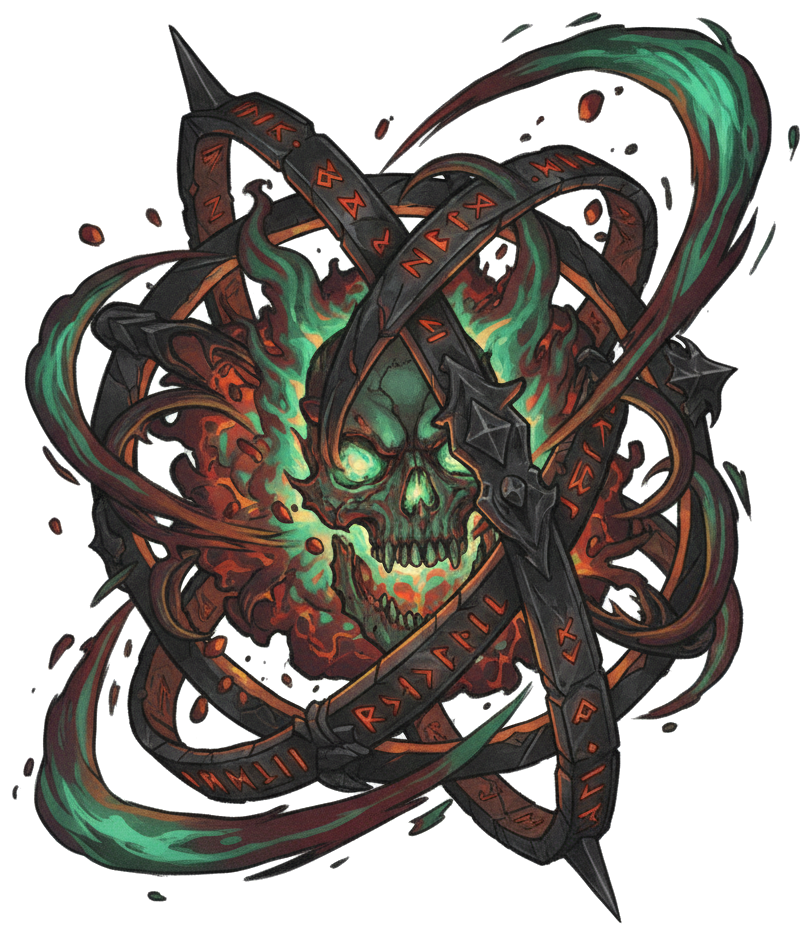
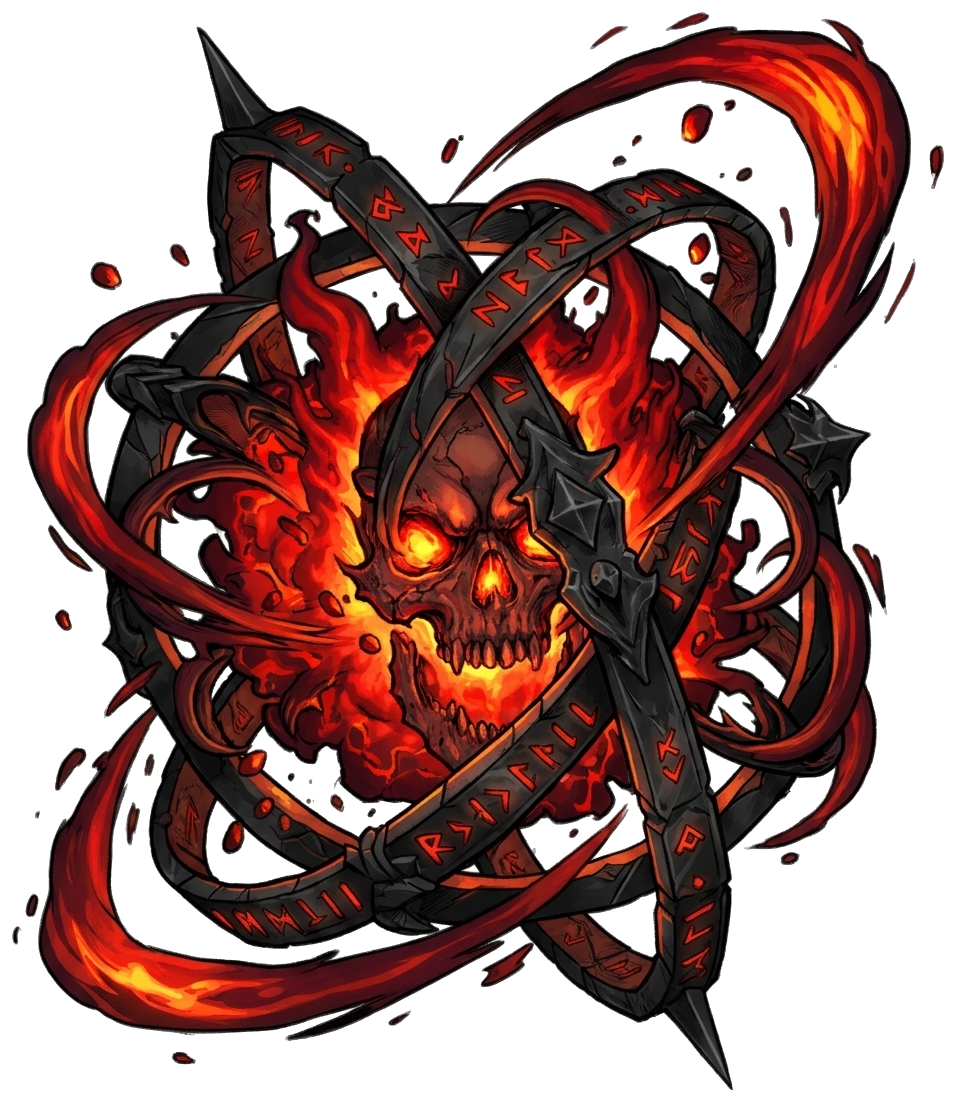
art(red_09_esfera_cinzas): change Caveira Piroclastica flames from green to fiery crimson and molten lava + bump cache v=27

diff --git a/src/components/CardView.tsx b/src/components/CardView.tsx
@@ -363,7 +363,7 @@ export const CardView: React.FC<CardViewProps> = ({
           <div className={`mtg-token-art aura-${displayCard.domain}`}>
             {!imgError && displayCard.imagePath ? (
               <img
-                src={`${displayCard.imagePath}?v=26`}
+                src={`${displayCard.imagePath}?v=27`}
                 alt={displayName}
                 className="mtg-token-img"
                 onError={() => setImgError(true)}
@@ -518,7 +518,7 @@ export const CardView: React.FC<CardViewProps> = ({
 
           {!imgError && displayCard.imagePath ? (
             <img
-              src={`${displayCard.imagePath}?v=26`}
+              src={`${displayCard.imagePath}?v=27`}
               alt={displayName}
               className="card-cutout-img"
               onError={() => setImgError(true)}
